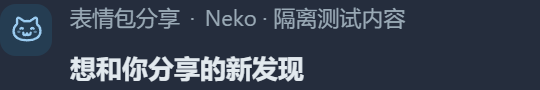
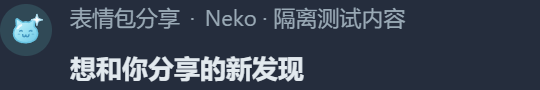
style: 表情包小猫采用浅蓝渐变贴纸与闪光

Changed region(s): [[0.0, 0.1556, 0.0889, 0.4889]]

diff --git a/frontend/react-neko-chat/src/ProactiveRecommendationBlock.tsx b/frontend/react-neko-chat/src/ProactiveRecommendationBlock.tsx
@@ -1,5 +1,5 @@
 import { i18n } from './i18n';
-import type { ReactNode } from 'react';
+import { useId, type ReactNode } from 'react';
 import { normalizeExternalUrlHref, openExternalUrl } from './openExternal';
 import MessageImageBlock from './MessageImageBlock';
 import { useRecommendationExposure } from './useRecommendationExposure';
@@ -7,12 +7,27 @@ import { hasProactiveRecommendationContent } from './message-schema';
 import type { ChatMessage, MessageAction, MessageBlock } from './message-schema';
 
 type ProactiveBlock = Extract<MessageBlock, { type: 'proactive_recommendation' }>;
+
+function MemeIcon() {
+  const gradientId = useId();
+  return <g strokeWidth="1.1">
+    <defs><linearGradient id={gradientId} x1="5" y1="6" x2="18" y2="22" gradientUnits="userSpaceOnUse">
+      <stop stopColor="#c1eff9" /><stop offset=".5" stopColor="#95dff2" /><stop offset="1" stopColor="#72c9e8" />
+    </linearGradient></defs>
+    <path d="m4.6 10-.4-4.2c-.1-.8.7-1.2 1.3-.7l3.3 2.2c1.5-.4 3.2-.4 4.7 0l2.4-1.7c.7-.5 1.5-.1 1.4.8l-.2 3.8c1.5 1.2 2.4 3 2.4 4.8 0 4.3-3.7 6.7-8.6 6.7S2.5 19.3 2.5 15c0-1.9.7-3.6 2.1-5Z" fill={`url(#${gradientId})`} stroke="#69c4e2" />
+    <path d="M5.5 11.5c.5-1 1.3-1.7 2.4-2.2" stroke="white" strokeWidth="1.5" strokeOpacity=".75" />
+    <path d="M6.9 13.5q.9-1 1.8 0m5 0q.9-1 1.8 0M9 16v.3a1.1 1.1 0 0 0 2.2 0 1.1 1.1 0 0 0 2.2 0V16" stroke="#4598c1" />
+    <path d="M5.9 15.7h.8m9 0h.8" stroke="#65b6d7" strokeOpacity=".65" />
+    <path d="m19 1.5 1 3 3 1-3 1-1 3-1-3-3-1 3-1Z" fill="white" stroke="#a9ddf0" strokeWidth=".7" />
+  </g>;
+}
+
 const icons: Record<ProactiveBlock['category'], ReactNode> = {
   news: <><rect x="4" y="4" width="16" height="16" rx="3" /><path d="M8 8h8M8 12h8M8 16h4" /></>,
   community: <><path d="M7 10a4 4 0 1 1 7 2M4 20v-2a5 5 0 0 1 9-3M17 13v6m-3-3h6" /></>,
   video: <><rect x="3" y="5" width="18" height="14" rx="4" /><path d="m10 9 5 3-5 3Z" /></>,
   personal: <><path d="M8 18H5l-2 3V8a4 4 0 0 1 4-4h10a4 4 0 0 1 4 4v6a4 4 0 0 1-4 4h-4M8 9h8M8 13h5" /></>,
-  meme: <><path d="M5 8.5V5a1 1 0 0 1 1.6-.8L10 6.5a12 12 0 0 1 4 0l3.4-2.3A1 1 0 0 1 19 5v3.5c1.7 1.3 2.5 3.1 2.5 5 0 4.4-4 6.5-9.5 6.5S2.5 17.9 2.5 13.5c0-1.9.8-3.7 2.5-5Z" /><path d="M7.3 11.8q.9-1 1.8 0m5.8 0q.9-1 1.8 0M9.4 14.6v.4a1.3 1.3 0 0 0 2.6 0 1.3 1.3 0 0 0 2.6 0v-.4" /><path d="M5.8 14h.8m10.8 0h.8" strokeOpacity=".5" /></>,
+  meme: <MemeIcon />,
   vision: <><path d="M2 12s4-7 10-7 10 7 10 7-4 7-10 7S2 12 2 12Z" /><circle cx="12" cy="12" r="3" /></>,
   window: <><rect x="3" y="4" width="18" height="16" rx="3" /><path d="M3 9h18M7 6.5h.01M10 6.5h.01" /></>,
   chat: <path d="m12 3 2.5 6.5L21 12l-6.5 2.5L12 21l-2.5-6.5L3 12l6.5-2.5Z" />,

diff --git a/frontend/react-neko-chat/src/styles.css b/frontend/react-neko-chat/src/styles.css
@@ -10489,7 +10489,7 @@ body.avatar-tool-editor-page .avatar-tool-workspace-settings {
 .proactive-recommendation-meta small { font: inherit; min-width: 0; overflow: hidden; white-space: nowrap; text-overflow: ellipsis; }
 .proactive-recommendation-icon { display: grid; place-items: center; width: 34px; height: 34px; margin-top: 1px; flex: none; border-radius: 11px; background: var(--recommendation-tint); color: var(--recommendation-accent); }
 .proactive-recommendation-icon svg { width: 20px; height: 20px; }
-.proactive-recommendation[data-proactive-category="meme"] .proactive-recommendation-icon { color: #3f8dc9; background: #eaf5ff; }
+.proactive-recommendation[data-proactive-category="meme"] .proactive-recommendation-icon { color: #3f8dc9; background: #f1f9fd; border-radius: 50%; }
 .proactive-recommendation-heading strong { font-size: 14px; font-weight: 600; line-height: 1.65; }
 .proactive-recommendation-actions { display: flex; align-items: center; flex-wrap: wrap; gap: 8px; padding-top: 1px; }
 .proactive-recommendation .proactive-recommendation-action {
@@ -10517,7 +10517,7 @@ body.avatar-tool-editor-page .avatar-tool-workspace-settings {
 .compact-proactive-recommendation-prompt:has(> .proactive-recommendation-bubble) { padding: 14px; border-color: rgba(108, 151, 174, .18); box-shadow: 0 4px 14px rgba(34, 64, 82, .07); }
 [data-theme="dark"] .proactive-recommendation { --recommendation-text: #e2e9ee; --recommendation-muted: #9aaab6; --recommendation-accent: #94c5da; --recommendation-tint: #304653; --recommendation-line: #41545f; }
 [data-theme="dark"] .proactive-recommendation-card { background: #28343f; }
-[data-theme="dark"] .proactive-recommendation[data-proactive-category="meme"] .proactive-recommendation-icon { background: #253d52; color: #9acbf0; }
+[data-theme="dark"] .proactive-recommendation[data-proactive-category="meme"] .proactive-recommendation-icon { background: #304956; color: #9acbf0; }
 [data-theme="dark"] .proactive-recommendation .proactive-recommendation-accept { color: #acd3e2; }
 [data-theme="dark"] .proactive-recommendation .proactive-recommendation-skip { color: #a3b3bd; }
 [data-theme="dark"] .proactive-recommendation .proactive-recommendation-action:hover:not(:disabled) { background: #3a5260; }
